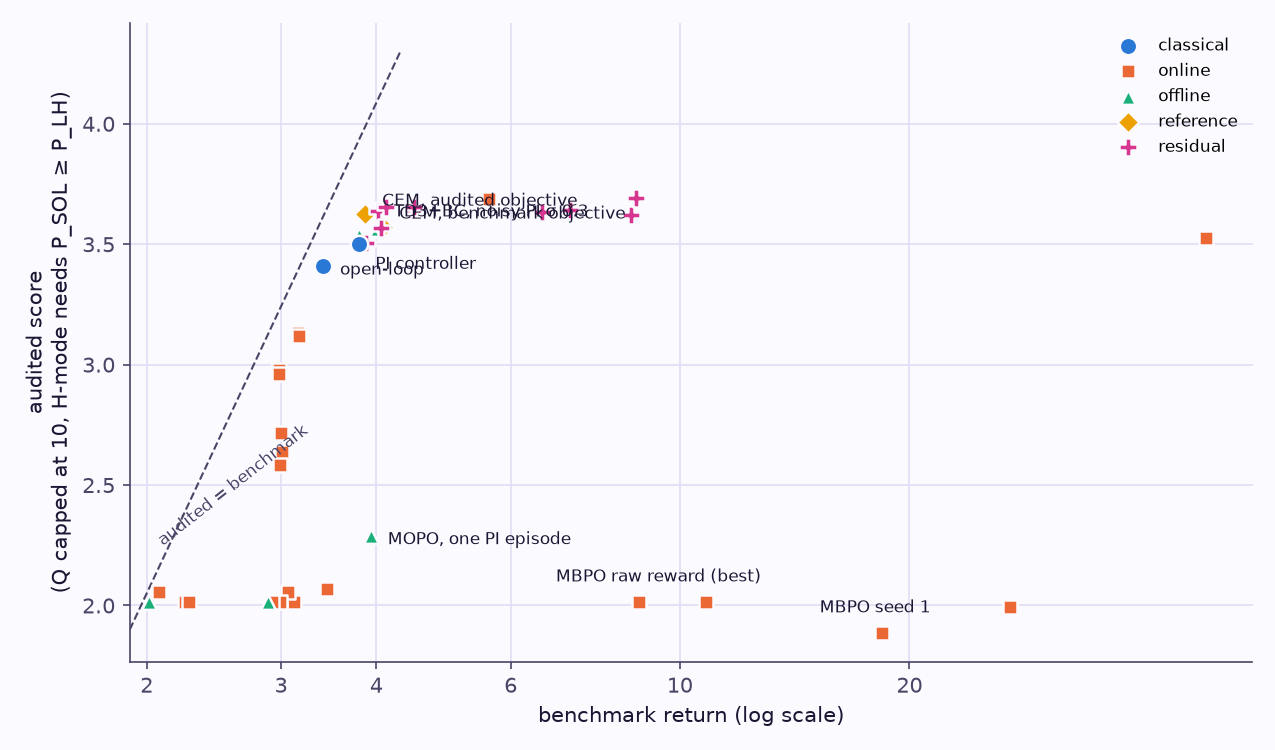
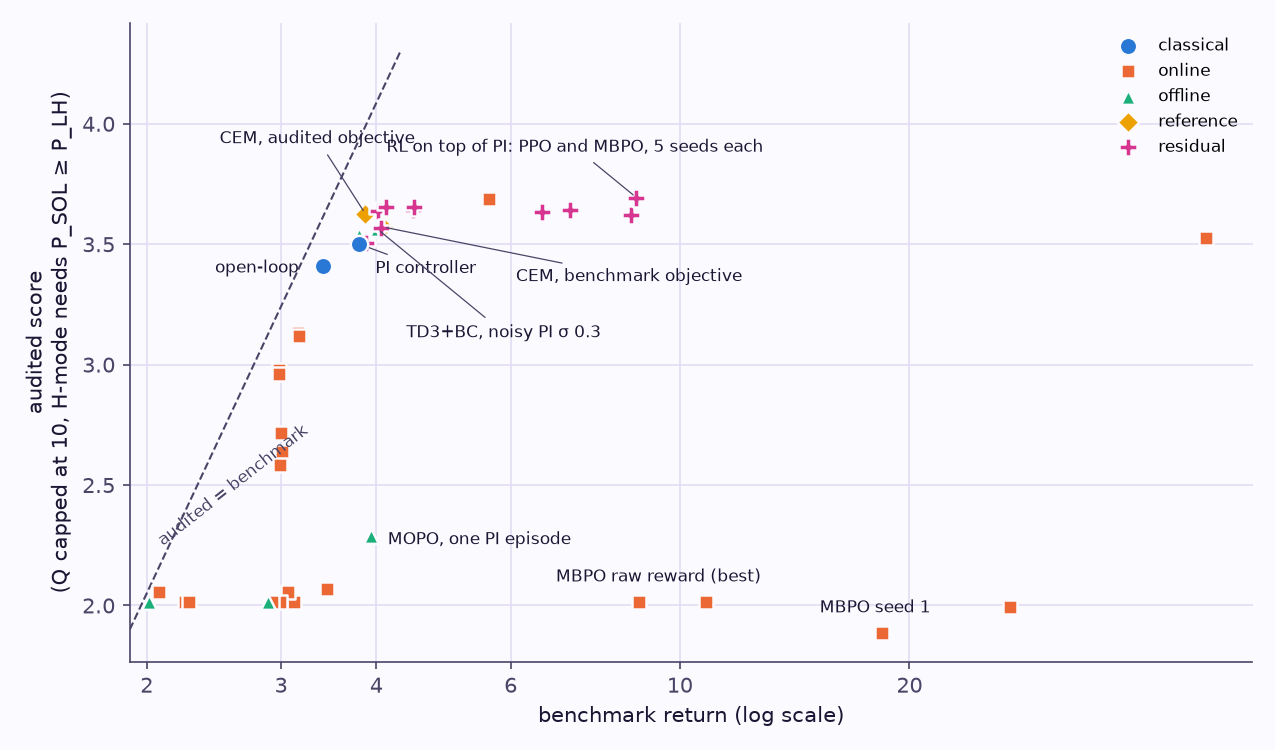
Audit scatter: one label for the residual runs; labels around the PI cluster no longer overlap

diff --git a/scripts/make_figures.py b/scripts/make_figures.py
@@ -252,11 +252,12 @@ def audit_scatter() -> None:
         fc = Path(f"data/trajectories/cem_best{tag}.csv")
         if fc.exists():
             pts.append((lab, float(pd.read_csv(fc)["r_bench"].sum()), _audit(fc), "reference"))
-    names = {"PI controller": ("PI controller", (8, -12)), "open-loop": ("open-loop", (8, -4)),
-             "td3bc_pi_noisy_0.3_s0": ("TD3+BC, noisy PI σ 0.3", (8, 6)),
+    names = {"PI controller": ("PI controller", (8, -14)), "open-loop": ("open-loop", (-52, -3)),
+             "td3bc_pi_noisy_0.3_s0": ("TD3+BC, noisy PI σ 0.3", (14, -52)),
              "mopo_pi_det_s0": ("MOPO, one PI episode", (8, -4)),
              "mbpo_raw_reward_best": ("MBPO raw reward (best)", (-40, 10)), "mbpo_s1": ("MBPO seed 1", (-30, 10)),
-             "cem_benchmark": ("CEM, benchmark objective", (8, 4)), "cem_audited": ("CEM, audited objective", (8, 4))}
+             "cem_benchmark": ("CEM, benchmark objective", (64, -26)), "cem_audited": ("CEM, audited objective", (-70, 34)),
+             "mbpo_res_s3": ("RL on top of PI: PPO and MBPO, 5 seeds each", (-120, 22))}
     fig, ax = plt.subplots(figsize=(8.5, 5))
     groups = {"classical": (SERIES[0], "o", 70), "online": (SERIES[1], "s", 45), "offline": (SERIES[2], "^", 50),
               "reference": (SERIES[3], "D", 55), "residual": ("#d6368f", "P", 70)}
@@ -269,7 +270,8 @@ def audit_scatter() -> None:
     for lab, x, y, g in pts:
         if lab in names:
             text, off = names[lab]
-            ax.annotate(text, (x, y), xytext=off, textcoords="offset points", fontsize=8, color=INK)
+            ax.annotate(text, (x, y), xytext=off, textcoords="offset points", fontsize=8, color=INK,
+                        arrowprops={"arrowstyle": "-", "color": MUTED, "lw": 0.6} if abs(off[1]) > 12 else None)
     ax.plot([1.9, 4.3], [1.9, 4.3], color=MUTED, lw=1, ls="--")
     ax.text(2.05, 2.25, "audited = benchmark", fontsize=8, color=MUTED, rotation=38)
     ax.set_xscale("log")
